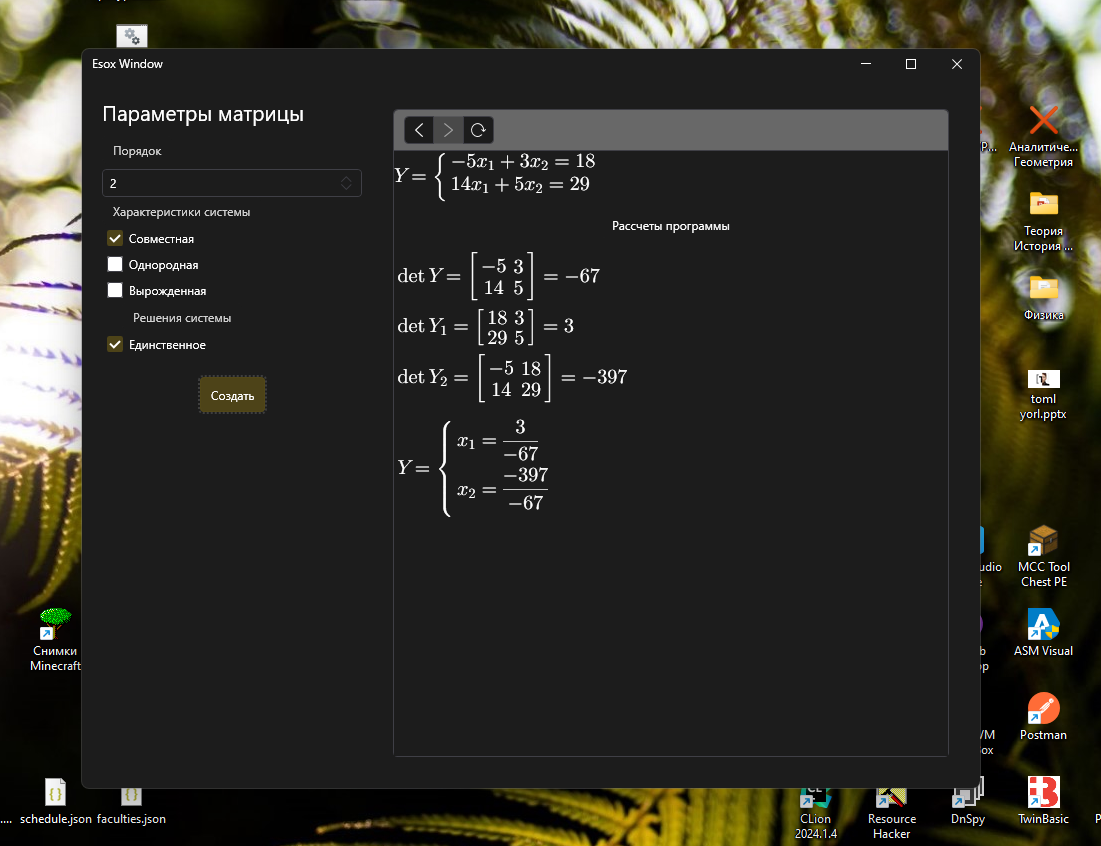
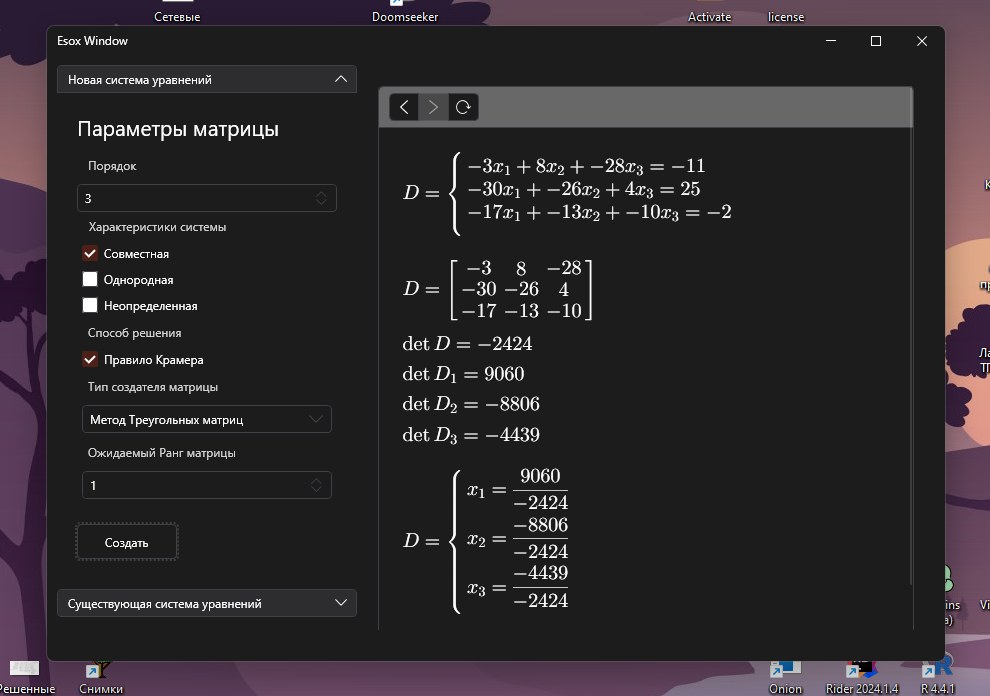
documentation update

diff --git a/INSIDE.md b/INSIDE.md
@@ -1,4 +1,9 @@
-### Внутри
+# Внутри
+
+> ![IMPORTANT] Здесь содержатся `KaTeX`
+макросы. Это лучше смотреть с документ в 
+web-версии GitHub или в Visual Studio Code.
+
 На данный момент рассматривается пока что два способа решения
 совместных систем линейных уравнений: метод Крамера
 и метод линейных преобразований (или метод Гаусса).
@@ -11,23 +16,229 @@
 до десятого порядка. Для матриц порядка выше десятого,
 это может быть плохим решением.
 
-### API
-Внутри статического объекта `Matrix` содержатся асинхронные
-методы для вычисления определителя матрицы.
-
-```csharp
-public Task<double> DeterminantF64(double[,]);
-public Task<double> DeterminantI32(double[,]);
-```
-
-Для вывода решения и самой системы линейных уравнений, используются наследующие `IProvider` объекты.
+## Использование методов для разрешения СЛАУ
+Для вывода решения и самой системы линейных уравнений, 
+используются наследующие `IProvider` объекты.
 
 ```csharp
 class KramerMethodProvider : IProvider { }
 ```
 
-Приложение использует `WpfMath` и `LaTex` соответственно,
-чтобы сохранить читаемость задачи и вывода решения.
-Поэтому суть `KramerMethodProvider` скорее в выводе решения
-в виде Latex разметки.
+Суть `IProvider`-подобных сущностей решении
+и в описании шагов решения для заданной системы линейных
+уравнений
 
+Все функции, которые разрешают задачу ~пусть и процедурно~
+скрываются от пользователя `IProvider` сущности, и предоставляют
+результат в модели данных
+
+```
+ComputingModel {get; private set;}
+    MainSystemFormula           <string>
+    MainSystemSolutionFormula   <string>
+```
+
+Если матрица генерируется, (требуется из ничего создавать большой объект),
+каждый конструктор провайдера метода требует `MethodProviderParameters`
+Структура параметров для метод-провайдера содержит пять основных параметров,
+учитывающихся обязательно, и один специфический флаг -- требование отказаться от метода линейных преобразований
+(на данный момент это флаг метода Крамера), поэтому фабричным методом, этот флаг учитывается
+и проверяются остальные флаги (ниже).
+
+```
+MethodProviderParameters:
+    Ordinal             <i32>
+    Rank                <i32>
+    MakeInConsistent    <bool>
+    MakeUndefined       <bool>
+    MakeHomogenous      <bool>
+```
+
+## Представление и хранение данных
+Основной тип данных в котором хранится вся матрица коэффициентов
+это тип обыкновенной дроби `Frac32`. Интуитивно понятно, что 
+структура представляет собой числитель и знаменатель дроби
+в виде целочисленных 32-разрядных данных.
+
+```csharp
+struct Frac32 
+{
+    int Enumerator {get; private set;}
+    int Denominator {get; private set;}
+    
+    /* другие части реализации */
+}
+```
+
+К сожалению, `Frac32` не расширяется благодаря
+`IComparable<T>`, `IEquatable<T>` и других интерфейсов,
+испольщующихся в описаниях стандартных типов данных .NET...,
+но операторы сравнения, сложения, умножения и другие реализованы.
+
+## `MatrixGenerator` - как создаются системы уравнений?
+Сущность `MatrixGenerator` предоставляет несколько методов
+для создания системы линейных алгебраических уравнений,
+три из которых можно выбрать самому в приложении, так как они
+применяются для создания совместной определенной СЛАУ.
+
+```csharp
+public MatrixGenerator(
+    int ordinal,
+    int rank,
+    LinearCastingGeneratorType type
+    int minimum,
+    int maximum,
+    bool isConsistent,
+    bool isHomogenous,
+    bool isUndefined
+)
+```
+
+По сути, на момент обновления документации, вся структура
+`MethodProviderParameters` переносится сюда. И не факт, что это навсегда.
+Дальнейшие действия по рефакторингу приложения предстоят, и все будет
+переноситься одной структурой, в целях "не писать монстров в виде типичной
+GDI функции"
+
+Функции создания матрицы все до единой имеют тип возвращаемого
+значения `(Frac32[,]; Frac32[])`. Это кортеж, который содержит
+основную матрицу системы (вертикальный массив `Frac32[,]`) и
+столбец свободных коэффициентов `Frac32[]`.
+
+Все функции используют псевдо-случайные значения, заданные
+диапозоном от минимума до максимума.
+
+### Метод Псевдо-случайных коэффициентов
+Замысел простой. Все массивы данных заполняются дробями
+с числителем, который изменяется от `minimum` до `maximum`.
+
+Вызов:
+```CSharp
+(Frac32[,] coefficients, Frac[] constants) = _instance.GenerateRandomFrac32Matrix();
+```
+
+### Метод Треугольных матриц
+Идея метода треугольных матриц в том, что изначально задается 
+единичная матрица определенного порядка `ordinal`. Далее
+просто линейно комбинируется, превращаясь в верхнюю
+треугольную матрицу, и далее так же заполняется.
+
+Вызов:
+```CSharp
+(Frac32[,] coefficients, Frac[] constants) = _instance.GenerateTriangleFrac32Matrix();
+```
+
+### Метод Ортогонализации
+Метод ортогонализации Грама — Шмидта — это алгоритм в 
+линейной алгебре, который позволяет преобразовать набор 
+векторов в ортогональный и ортонормированный базис.
+
+Суть алгоритма в том, что он последовательно строит 
+попарно ортогональные векторы $\{b_1, b_2, ..., b_n\}$ 
+подпространства $S$ евклидова пространства $E$ 
+($S$ может и совпадать со всём пространством $E$). 
+Затем, нормируя векторы $\{b_1, b_2, ..., b_n\}$, 
+получают ортонормированный базис.
+
+```CSharp
+(Frac32[,] coefficients, Frac[] constants) = _instance.GenerateOrthogonalFrac32Matrix();
+```
+
+> Все, что описывается далее, не гарантирует
+100% создание требуемой системы линейных уравнений
+
+### Создание несовместной системы линейных уравнений
+Существует классический случай несовместности системы.
+Рассмотрим его.
+
+$$
+W_{ext} = 
+\begin{bmatrix}
+    1 & 0 & 0 & 0 \\
+    0 & 1 & 0 & 0 \\
+    0 & 0 & 0 & 1
+\end{bmatrix}
+$$
+
+Данная матрица $W$ пусть и представляет собой эшелон столбцов (ступенчатую матрицу),
+содержит строку 3, где явно выполняется неравенство $0 \neq 1$
+
+Алгоритм создания несовместной матрицы как раз рассматривает подобную ситцацию,
+но генерирует линейно зависимые столбцы основной матрицы системы, предположим
+
+$$
+W_{common} = 
+\begin{bmatrix}
+    -7 & -3 & 1 \\
+    1 & 5 & 7 & \\
+    \alpha & 5\alpha & 7\alpha
+\end{bmatrix} W_{free} =
+\begin{bmatrix}
+    \beta  \\
+    \gamma  \\
+    \delta  \\
+\end{bmatrix}
+$$
+
+Где $\alpha$ случайное число, обеспечивающее эффект "замыленного глаза"
+при попытке заметить закономерности.
+Остальные элементы просто представляют собой случайные числа
+и заполняются следующим шагом после заполнения
+основной матрицы коэффициентов $W_{common}$
+
+Вызов:
+```CSharp
+(Frac32[,] coefficients, Frac[] constants) = _instance.GenerateInConsistentFrac32Matrix();
+```
+
+
+### Метод неопределенных совместных систем линейных уравнений
+
+Метод для неопределенных совместных СЛАУ,
+так же рассматривает теорему Кранекера-Капелли,
+рассматривает случай линейной зависимости строк,
+
+Сначала генерируются линейно независимые строки (определяется рангом матрицы)
+уже для расширенной матрицы
+$$
+J_{ext} = 
+\begin{bmatrix}
+    -7 & -3 & 1 & 3\\
+    \dots & \dots & \dots
+\end{bmatrix}
+$$
+
+После генерации линейно-независимых строк, когда $i > r(J_{ext})$,
+идет генерация линейно-зависимых строк.
+создается строка коэффициентов $[\alpha, \alpha, \alpha, \alpha]$
+и умножается на случайно созданный вектор чисел например $[4, 2, 5, 6]$
+
+$$
+J_{ext} = 
+\begin{bmatrix}
+    -7 & -3 & 1 & 3\\
+    4\alpha & 2\alpha & 5\alpha & 6\alpha \\
+    \dots & \dots & \dots
+\end{bmatrix}
+$$
+
+Следующей итерацией, создается столбец коэффициентов $\beta$,
+идея повторяется
+
+$$
+J_{ext} = 
+\begin{bmatrix}
+    -7 & -3 & 1 & 3\\
+    4\alpha & 2\alpha & 5\alpha & 6\alpha \\
+    4\beta & 2\beta & 5\beta & 6\beta \\
+\end{bmatrix}
+$$
+
+Соответственно, обеспечивается линейная зависимость, и
+другие параметры от пользователя, но никто не исколючает
+случайные совпадения.
+
+Вызов:
+```CSharp
+(Frac32[,] coefficients, Frac[] constants) = _instance.GenerateUndefinedFrac32Matrix();
+```

diff --git a/README.md b/README.md
@@ -6,15 +6,36 @@ Esox генерирует и решает системы линейных алг
 ### Снимки экрана
 Акцент и темная тема:
 
-<img src="Screenshots/kramer dark.png" height="300">
+<img src="Screenshots/kramer dark.png" height="300" width="400">
 
 Акцент и светлая тема
 
-<img src="Screenshots/kramer white.png" height="300">
+<img src="Screenshots/kramer white.png" height="300" width="400">
 
 ### [Описание алгоритмов](INSIDE.md)
 Постепенно будет описываться в [здесь](INSIDE.md), или переедет в новый каталог
 с численными методами.
+
+### Режимы работы
+Приложение способно как создавать и решать системы линейных уравнений, так и решать уже установленную расширенную
+матрицу системы. С обновления `1.2.0.0` добавлены два
+раздела параметров для новой матрицы системы и для существующей
+матрицы системы.
+
+<img src="Screenshots/fcases.png" height="300" width="500">
+
+На снимке экрана выше представлено составление фундаментальной
+совокупности решений для новой (сгенерированной) матрицы
+коэффициентов.
+
+<img src="Screenshots/students update.png" height="300" width="400">
+
+На данном снимке экрана представлен ход решения для
+существующей матрицы системы (заданной вручную, используя `LaTeX` окружения).
+
+> На момент обновления `README` использование комманды `\pmatrix`
+при десериализации не включено, поэтому матрицу системы следует задавать
+явными блоками окружения `\begin{...}` и `\end{...}`
 
 # Используется
  - [WpfMath](https://github.com/nevgeny/wpf-math) - Элемент управления окна для WPF приложений, который рисует разметку `LaTeX`
